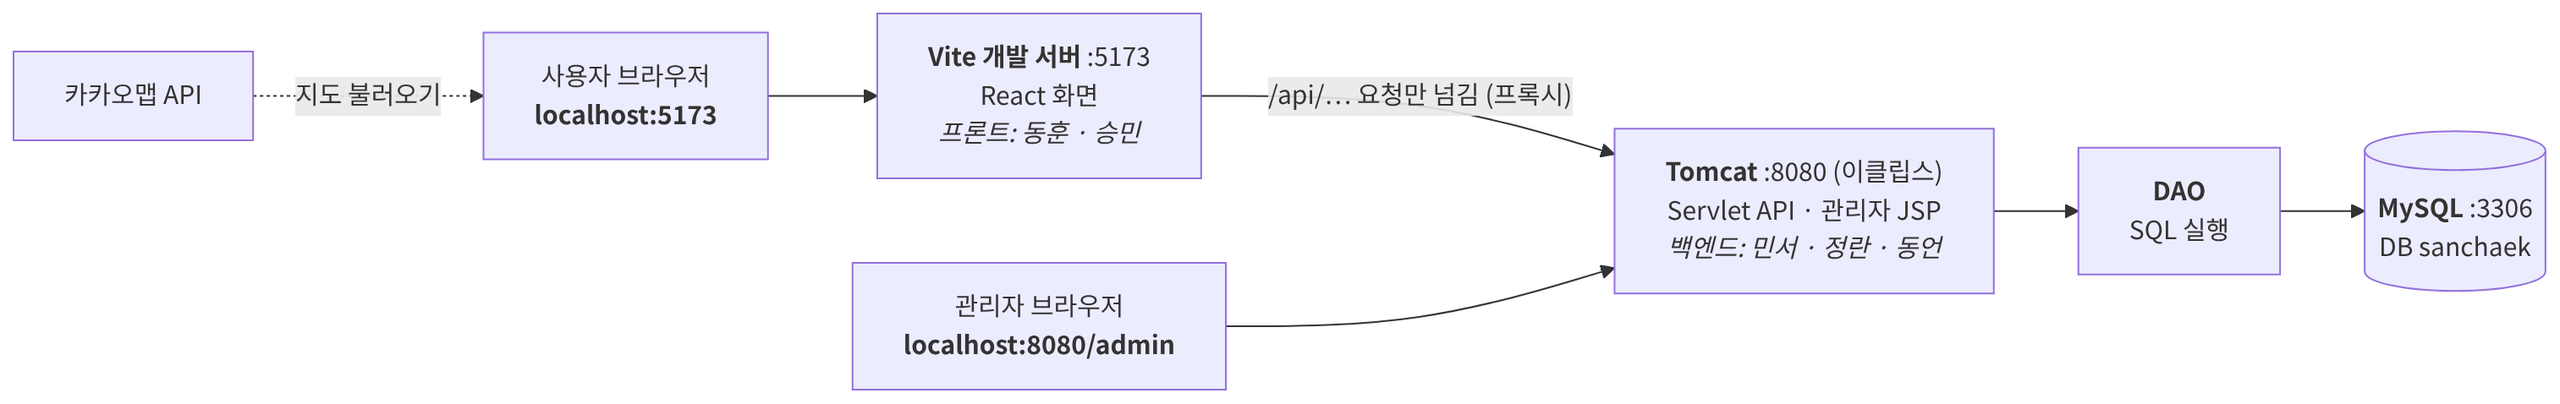
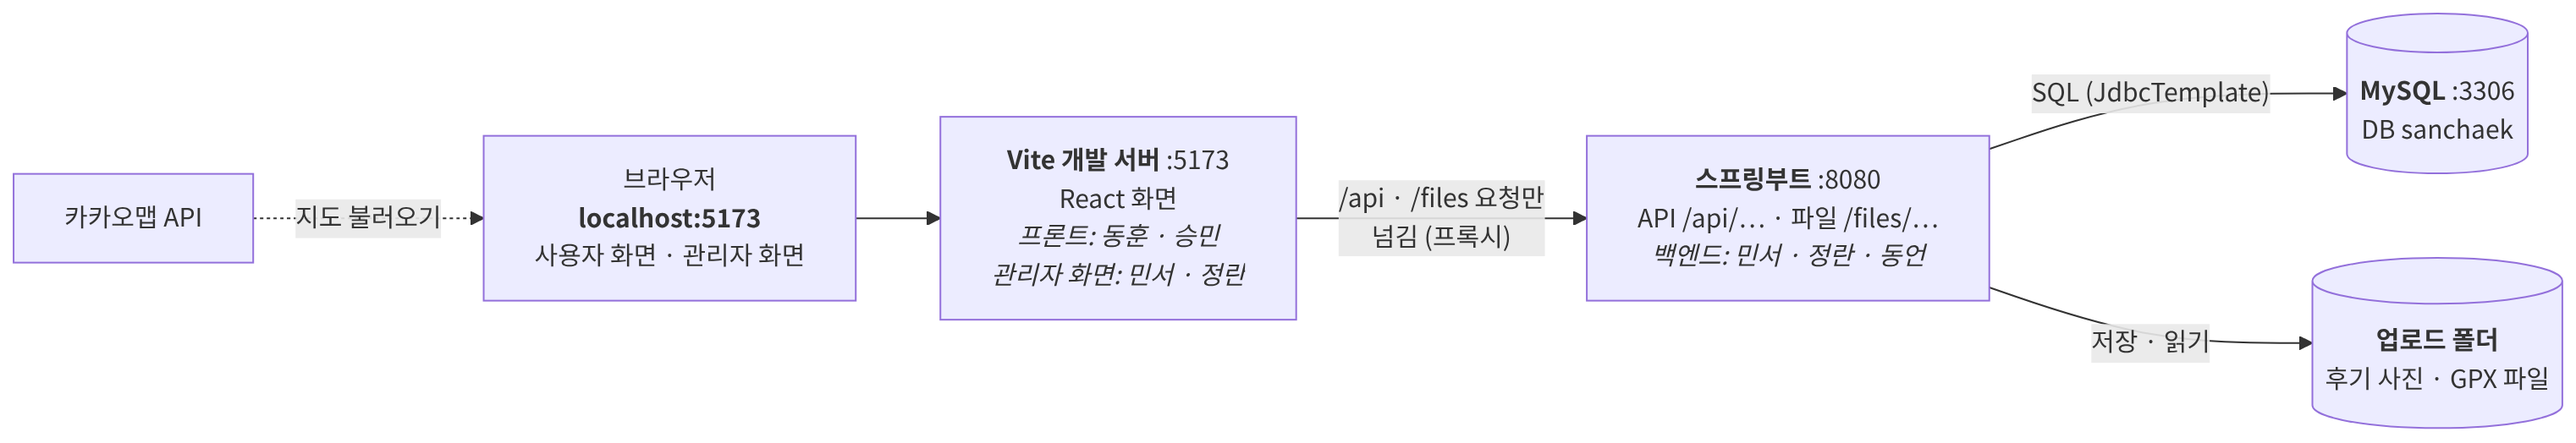
docs: README 스프링부트 전환·배포 안 함·역할 변경 반영, 가독성 정리
- 기술 스택: 스프링부트 4.1(Gradle, JDK 21), VS Code, JdbcTemplate, 배포 안 함
- 전환 중 안내(지금 해도 되는 세팅), 누가 뭘 하나 표 추가
- 구조도: Tomcat·JSP → 스프링부트, 업로드 폴더
- 디스코드 언급 삭제, 줄바꿈·목차·섹션 간격 정리

Claude-Session: https://claude.ai/code/session_01PVf1AhRAoQhu6MZZhNMM2i

diff --git a/README.md b/README.md
@@ -1,158 +1,224 @@
-# Team_walk — 산책시루
+# 🚶 산책시루 (Team_walk)
 
-7팀 산책크루의 정왕동 산책 동행 서비스 **산책시루** 저장소입니다.
+7팀 **산책크루**의 시흥시 정왕동 산책 동행 서비스 저장소입니다.
 
-> **처음 왔다면:** [빠른 시작](#빠른-시작)의 세 화면이 목표입니다. [세팅 가이드](docs/setup.md)를 순서대로 따라 하세요.
-> **백엔드 담당**은 이어서 [DB 세팅](db/README.md#처음-세팅-윈도우-한-번만)과 [설정 파일 `db.properties`](db/README.md#6-백엔드-설정-파일-만들기-dbproperties)까지 합니다 (프론트는 2주차에).
-> **깃허브가 처음이면** 아래 [깃허브로 작업하는 법](#깃허브로-작업하는-법)부터 보세요.
-> 막히면 [막혔을 때](docs/troubleshooting.md)를 먼저 보세요. 지금까지 겪은 문제와 해결법이 모두 있습니다.
+> [!WARNING]
+> **백엔드를 JSP · Servlet에서 스프링부트로 바꾸는 중입니다.**<br>
+> 지금 `backend` 폴더의 Servlet 코드와 세팅 가이드의 이클립스 · Tomcat 부분은 곧 바뀝니다.
+>
+> **그 전까지 지금 해도 되는 것**
+> - Git · JDK 21 · Node.js · VS Code 설치와 저장소 받기 → [세팅 가이드](docs/setup.md) 1 · 2번 (Tomcat · 이클립스는 건너뛰기)
+> - 프론트 세팅 → [세팅 가이드 4번](docs/setup.md#4-프론트-세팅-처음-한-번)
+> - MySQL 설치와 DB 세팅 → [DB 안내 1) ~ 4)](db/README.md#처음-세팅-윈도우-한-번만)
 
-![산책시루 개발 구조: 브라우저 → Vite(5173) → Tomcat(8080) → DAO → MySQL(3306)](docs/images/architecture.png)
+<br>
 
-- 브라우저는 항상 **`localhost:5173`** (React)으로 접속합니다. `/api/…` 요청만 Vite가 이클립스 Tomcat(`8080`)으로 넘깁니다.
-- 백엔드 Servlet은 DAO를 거쳐 MySQL(`3306`)의 `sanchaek` DB를 씁니다. 관리자 화면만 Tomcat의 JSP로 직접 엽니다.
+## 목차
 
----
+1. [한눈에 보기](#-한눈에-보기)
+2. [기술 스택](#-기술-스택)
+3. [누가 뭘 하나](#-누가-뭘-하나)
+4. [문서 안내](#-문서-안내)
+5. [빠른 시작](#-빠른-시작)
+6. [깃허브로 작업하는 법](#-깃허브로-작업하는-법)
+7. [폴더 구조](#-폴더-구조)
+8. [꼭 지킬 것](#-꼭-지킬-것)
 
-## 문서 안내
+<br>
+
+## 📌 한눈에 보기
+
+![산책시루 개발 구조: 브라우저 → Vite(5173) → 스프링부트(8080) → MySQL(3306) · 업로드 폴더](docs/images/architecture.png)
+
+- 브라우저는 항상 **`localhost:5173`** 으로 접속합니다.<br>
+  사용자 화면과 관리자 화면 모두 React입니다.
+
+- `/api/…`, `/files/…` 요청만 Vite가 **스프링부트(`8080`)** 로 넘깁니다.
+
+- 스프링부트는 각자 PC의 **MySQL(`3306`)** 에 있는 `sanchaek` DB를 씁니다.
+
+- **배포는 하지 않습니다.**<br>
+  시연은 노트북 한 대에 DB · 백엔드 · 프론트를 모두 띄워서 합니다.
+
+<br>
+
+## 🧰 기술 스택
+
+| 항목 | 사용 |
+| --- | --- |
+| 프론트 | React 19 + Vite 8, ESLint |
+| 백엔드 | 스프링부트 4.1, Gradle |
+| Java | JDK 21 |
+| Node.js | 22.12 이상 (LTS) |
+| DB | MySQL 8.4 (8.0도 가능), 각자 PC에 설치 |
+| DB 접근 | JdbcTemplate (SQL을 직접 작성) |
+| 개발 도구 | VS Code (프론트는 WebStorm도 가능) |
+| 지도 | 카카오맵 JavaScript API |
+| 협업 | GitHub |
+| 배포 | 하지 않음 (로컬 시연) |
+
+> [!TIP]
+> 인터넷 예제가 `import javax.…` 로 시작하면 옛날 버전(스프링부트 2) 예제입니다.<br>
+> `jakarta.…` 로 바꾸거나, 스프링부트 3 이상 예제를 찾아보세요.
+
+<br>
+
+## 👥 누가 뭘 하나
+
+| 이름 | 역할 | 맡은 기능 |
+| --- | --- | --- |
+| 민서 | 백엔드 · 팀장 | 동행, 공통 코드, 관리자 AD3 |
+| 정란 | 백엔드 | 계정, 신고, 관리자 AD1 · AD2 · AD4 |
+| 동언 | 백엔드 | 코스 · GPX, 후기, 랜드마크 · 스탬프 |
+| 동훈 | 프론트 | 지도 · 코스 · 동행 화면 |
+| 승민 | 프론트 | 계정 · 마이페이지 · 후기 · 스탬프 · 신고 화면, 에러 페이지, 공통 부품 |
+
+- 관리자 화면(AD1~AD4)은 **백엔드 담당이 React로 직접** 만듭니다.
+- 화면별 분배와 일정은 **팀 노션**에 있습니다.
+
+<br>
+
+## 📚 문서 안내
 
 | 문서 | 언제 보나 | 내용 |
 | --- | --- | --- |
-| **[세팅 가이드](docs/setup.md)** | 처음 한 번 | 설치, 폴더 배치, 이클립스 · Tomcat, 프론트, 환경 확인용 테스트 코드, 맥 사용자 부록 |
-| **[DB 안내](db/README.md)** | 백엔드 1주차 시작 전, 테이블이 바뀔 때 | ERD, 설계 약속, MySQL 세팅, 테스트 계정, 쿼리 예시, DB 오류 |
-| **[개발 규칙](docs/development.md)** | 작업할 때마다 | API · 화면 만드는 법, **백엔드 공통 코드 쓰는 법**, 브랜치 · PR 규칙, **깃허브 사용법**(명령어 · PR 올리기 · 리뷰하고 합치기 · 실수 되돌리기), 커밋 메시지 |
-| **[막혔을 때](docs/troubleshooting.md)** | 오류가 났을 때 | 설치 · 이클립스 · Maven · 포트 · 프론트 · Git 문제와 해결법 |
+| [세팅 가이드](docs/setup.md) | 처음 한 번 | 설치, 저장소 받기, 프론트 세팅 |
+| [DB 안내](db/README.md) | DB 세팅할 때<br>테이블이 바뀔 때 | ERD, 설계 약속, 테스트 계정, 쿼리 예시 |
+| [개발 규칙](docs/development.md) | 작업할 때마다 | 화면 · API 만드는 법, **깃허브 사용법**, 커밋 메시지 |
+| [막혔을 때](docs/troubleshooting.md) | 오류가 났을 때 | 지금까지 겪은 문제와 해결법 |
 
-## 관련 문서 (저장소 밖)
+**저장소 밖 문서**
 
-| 문서 | 내용 | 위치 |
-| --- | --- | --- |
-| 노션 | 역할 분배, 우선순위(1·2순위·보류), 일정 | 팀 노션 (디스코드 공지 링크) |
-| Figma | 화면 설계, 화면 ID(A1, C1, W2 …), 📝 메모의 API(안) | [Figma 파일](https://www.figma.com/design/8g73YEapksdegpYXV7aPKp) |
-| API 명세 | 주소, 요청·응답 예시, 담당자 | 노션의 "API 명세" 링크 |
+- 🗒 **노션** — 역할 분배, 우선순위(1순위 · 2순위 · 보류), 일정
+- 🎨 **[Figma](https://www.figma.com/design/8g73YEapksdegpYXV7aPKp)** — 화면 설계, 화면 ID(A1, C1, W2 …), 📝 메모
+- 📄 **API 명세** — 주소, 요청 · 응답 예시, 담당자 (노션의 "API 명세" 링크)
 
----
+<br>
 
-## 빠른 시작
+## ✅ 빠른 시작
 
-아래 화면이 모두 보이면 개발 환경 준비 끝입니다. **캡처해서 디스코드에 올려 주세요.**
+스프링부트 전환이 끝나면 아래 세 가지가 모두 보여야 합니다.<br>
+다 되면 화면을 캡처해서 팀에 공유해 주세요.
 
-| 주소 / 명령 | 보여야 하는 것 | 확인되는 것 |
-| --- | --- | --- |
-| `http://localhost:8080/` | **산책시루 서버가 동작합니다** / JSP: 정상 동작 / JSTL: JSTL 정상 동작 | 이클립스 + Tomcat + JSP |
-| `http://localhost:8080/api/hello` | `{"success":true,"data":{"message":"안녕하세요, 산책시루 서버입니다", …}}` | Servlet + JSON |
-| `http://localhost:5173/` | **산책시루 프론트가 동작합니다** + **✅ 연결 성공** | React + Vite + 백엔드 연결 |
-| (백엔드) `source …/db/check.sql` | 7줄 모두 **OK** | MySQL + 테이블 + 테스트 데이터 ([DB 안내](db/README.md#4-확인)) |
+**1. 백엔드** — `http://localhost:8080/api/hello`
 
----
+```json
+{"success":true,"data":{"message":"안녕하세요, 산책시루 서버입니다", …}}
+```
 
-## 깃허브로 작업하는 법
+**2. 프론트** — `http://localhost:5173/`
 
-**기능 하나 = 브랜치 하나 = PR 하나.** main · develop에는 직접 올리지 않고, 항상 내 브랜치 → PR → 리뷰 → 합치기 순서입니다.
+> 산책시루 프론트가 동작합니다<br>
+> ✅ 연결 성공
+
+**3. DB** — `mysql>` 에서 `source …/db/check.sql`
+
+> 7줄 모두 **OK** ([DB 안내 4)](db/README.md#4-확인))
+
+<br>
+
+## 🌿 깃허브로 작업하는 법
+
+**기능 하나 = 브랜치 하나 = PR 하나**
+
+main · develop에는 직접 올리지 않습니다.<br>
+항상 **내 브랜치 → PR → 리뷰 → 합치기** 순서입니다.
 
 ![깃허브 작업 흐름: ① develop 받기 → ② 브랜치 만들기 → ③ 커밋 → ④ develop 반영 → ⑤ push → ⑥ PR 만들기 → ⑦ 리뷰 → ⑧ 합치기](docs/images/git-workflow.png)
 
 ```bash
-git checkout develop && git pull                 # ① 최신 develop 받기
-git checkout -b feature/W2-match-detail          # ② 내 브랜치 (feature/화면ID-기능)
-git add backend && git commit -m "feat: 동행 상세 API 추가"   # ③ 작게, 자주
-git pull origin develop                          # ④ 그사이 바뀐 develop 반영
-git push -u origin feature/W2-match-detail       # ⑤ 올리기 → 깃허브에서 PR (base: develop)
+# ① 최신 develop 받기
+git checkout develop
+git pull
+
+# ② 내 브랜치 만들기 (feature/화면ID-기능)
+git checkout -b feature/W2-match-detail
+
+# ③ 작업하고 커밋 (작게, 자주)
+git add backend
+git commit -m "feat: 동행 상세 API 추가"
+
+# ④ 그사이 바뀐 develop 반영
+git pull origin develop
+
+# ⑤ 깃허브에 올리기 → 깃허브 화면에서 PR 만들기 (base: develop)
+git push -u origin feature/W2-match-detail
 ```
 
-| 처음이라면 | 자세히 |
+**처음이라면 여기를 보세요**
+
+| 상황 | 자세히 |
 | --- | --- |
 | 이름 · 이메일 설정 (처음 한 번) | [3-1. 처음 한 번](docs/development.md#3-1-처음-한-번) |
 | PR 만드는 화면, 리뷰어 지정 | [3-3. PR 올리는 법](docs/development.md#3-3-pr-올리는-법-깃허브-화면) |
-| 리뷰어가 할 일 (Approve → Merge → Delete branch) | [3-4. 리뷰하고 합치는 법](docs/development.md#3-4-리뷰하고-합치는-법-리뷰어) |
+| 리뷰어가 할 일<br>(Approve → Merge → Delete branch) | [3-4. 리뷰하고 합치는 법](docs/development.md#3-4-리뷰하고-합치는-법-리뷰어) |
 | `CONFLICT`가 났다 | [3-5. 충돌이 났을 때](docs/development.md#3-5-충돌이-났을-때) |
-| develop에서 바로 작업했다, 커밋 메시지를 틀렸다 등 | [3-6. 자주 하는 실수와 되돌리기](docs/development.md#3-6-자주-하는-실수와-되돌리기) |
+| develop에서 바로 작업했다<br>커밋 메시지를 틀렸다 등 | [3-6. 자주 하는 실수와 되돌리기](docs/development.md#3-6-자주-하는-실수와-되돌리기) |
 
----
+<br>
 
-## 기술 스택
-
-| 항목 | 버전 / 도구 | 비고 |
-| --- | --- | --- |
-| Java (JDK) | **21** 설치 권장 (17 이상이면 됨) | 빌드 기준은 17 (`pom.xml`). 21로 빌드해도 문제없음 |
-| 서버 | **Tomcat 10.1** | 팀 전원 같은 버전 |
-| 백엔드 | JSP · Servlet (Jakarta EE 10), Maven | Maven은 이클립스에 내장되어 있어 따로 설치 안 해도 됨 |
-| 백엔드 IDE | 이클립스 **Enterprise Java and Web Developers** | |
-| 프론트 | **React 19 + Vite 8**, ESLint | |
-| Node.js | **22.12 이상** (LTS) | Vite 8의 최소 요구 버전 |
-| 프론트 IDE | VS Code 또는 WebStorm | |
-| DB | **MySQL 8.4** (8.0도 가능), 각자 PC에 설치 | ERD · 세팅 방법 · 테스트 계정은 [db/README.md](db/README.md). 배포 서버는 아직 계획 없음 |
-| 지도 | 카카오맵 JavaScript API (예정) | |
-| 협업 | GitHub, 디스코드 | |
-
-> ⚠ **Tomcat 10.1부터는 `javax.servlet` 대신 `jakarta.servlet`** 을 씁니다. 인터넷 예제를 복사할 때 `import javax.…`를 `import jakarta.…`로 바꾸세요.
->
-> ⚠ **JSTL 주소도 바뀌었습니다:** `<%@ taglib prefix="c" uri="jakarta.tags.core" %>` (예전 `http://java.sun.com/jsp/jstl/core` 아님)
-
----
-
-## 폴더 구조
+## 🗂 폴더 구조
 
 ```
 Team_walk/
-├─ README.md                         지금 보는 안내판
-├─ docs/                             문서
-│  ├─ setup.md                       세팅 가이드 (처음 한 번)
-│  ├─ development.md                 개발 규칙 (브랜치·PR, Git, 커밋)
-│  ├─ troubleshooting.md             막혔을 때
-│  └─ images/                        README 그림 (.png) 과 그림 원본 (.mmd)
-├─ db/                               DB (민서가 관리, 바꿀 때는 PR)
-│  ├─ README.md                      ERD, 설계 약속, MySQL 세팅, 테스트 계정
-│  ├─ schema.sql                     테이블 만들기 (실행하면 데이터 초기화)
-│  ├─ seed.sql                       테스트 데이터 (1·2주차)
-│  ├─ check.sql                      세팅 확인 (7줄 모두 OK 면 성공)
-│  └─ sample-uploads/                테스트용 후기 사진 (각자 PC 업로드 폴더로 복사)
-├─ backend/                          백엔드 (이클립스로 여는 폴더)
-│  ├─ pom.xml                        라이브러리 목록, 빌드 설정
+├─ README.md                지금 보는 안내판
+├─ docs/                    문서
+│  ├─ setup.md              세팅 가이드
+│  ├─ development.md        개발 규칙 · 깃허브 사용법
+│  ├─ troubleshooting.md    막혔을 때
+│  └─ images/               README 그림 (.png) 과 원본 (.mmd)
+│
+├─ db/                      DB (민서 관리, 바꿀 때는 PR)
+│  ├─ README.md             ERD, 설계 약속, MySQL 세팅, 테스트 계정
+│  ├─ schema.sql            테이블 만들기 (실행하면 데이터 초기화)
+│  ├─ seed.sql              테스트 데이터
+│  ├─ check.sql             세팅 확인 (7줄 모두 OK면 성공)
+│  └─ sample-uploads/       테스트용 후기 사진
+│
+├─ backend/                 백엔드 (VS Code로 열기) — 스프링부트로 교체 예정
+│  ├─ build.gradle          라이브러리 목록 (예정)
 │  └─ src/main/
 │     ├─ java/kr/sanchaek/
-│     │  ├─ common/                  공통 코드 (민서) → 쓰는 법은 개발 규칙 1번
-│     │  │  ├─ DBUtil.java           DB 연결
-│     │  │  ├─ ApiResponse.java      응답 형식 { success, data } · JSON 읽기
-│     │  │  ├─ ApiFilter.java        /api 오류를 JSON으로 (자동)
-│     │  │  ├─ SessionUtil.java      로그인 세션 · 로그인 확인
-│     │  │  ├─ PasswordUtil.java     비밀번호 해시 · 확인
-│     │  │  ├─ FileStore.java        후기 사진 저장 · 주소
-│     │  │  ├─ FileServlet.java      /files/… 사진 보내기
-│     │  │  ├─ AppConfig.java        설정 파일 읽기
-│     │  │  └─ HelloServlet.java     ★ 환경 확인용 테스트 API (/api/hello)
-│     │  ├─ match/        (예정)      동행 (민서)
-│     │  ├─ user/         (예정)      계정, 후기, 신고 (정란)
-│     │  └─ course/       (예정)      코스, GPX, 랜드마크 (동언)
-│     ├─ resources/
-│     │  ├─ db.properties.example    설정 파일 예시 (복사해서 db.properties 로)
-│     │  └─ db.properties            DB 비밀번호 · 업로드 폴더 (각자 만듦, 깃허브에 안 올라감)
-│     └─ webapp/
-│        ├─ index.jsp                ★ 환경 확인용 테스트 페이지
-│        ├─ WEB-INF/views/admin/ (예정)  관리자 JSP
-│        └─ error/        (예정)      404, 500 페이지
-└─ frontend/                         프론트 (VS Code·WebStorm으로 여는 폴더)
-   ├─ package.json                   라이브러리 목록 (백엔드의 pom.xml 역할)
-   ├─ vite.config.js                 개발 서버 설정, /api 프록시
-   ├─ index.html                     처음 열리는 빈 페이지
+│     │  ├─ common/         공통 코드 (민서) · ★ /api/hello 테스트 API
+│     │  ├─ match/          동행 (민서)
+│     │  ├─ user/           계정 · 신고 · 관리자 (정란)
+│     │  └─ course/         코스 · GPX · 후기 · 랜드마크 (동언)
+│     └─ resources/         설정 파일 (DB 비밀번호는 각자 PC에만)
+│
+└─ frontend/                프론트 (VS Code · WebStorm으로 열기)
+   ├─ package.json          라이브러리 목록
+   ├─ vite.config.js        개발 서버 설정, /api · /files 프록시
    └─ src/
-      ├─ main.jsx                    React 시작점
-      ├─ App.jsx                     ★ 환경 확인용 테스트 화면 (백엔드 연결 확인)
-      ├─ pages/       (예정)          화면 단위 (Figma 화면 ID)
-      ├─ components/  (예정)          공통 부품 (버튼, 헤더, 카드, 지도 …)
-      ├─ api/         (예정)          백엔드 호출 함수
-      └─ mocks/       (예정)          백엔드 완성 전 가짜 데이터
+      ├─ main.jsx           React 시작점
+      ├─ App.jsx            ★ 환경 확인용 테스트 화면
+      ├─ pages/             (예정) 화면 하나 = 파일 하나, Figma 화면 ID로 이름
+      │  └─ admin/          (예정) 관리자 화면 AD1~AD4 (백엔드 담당이 만듦)
+      ├─ components/        (예정) 공통 부품 (버튼, 헤더, 카드, 지도 …)
+      ├─ api/               (예정) 백엔드 호출 함수
+      └─ mocks/             (예정) 백엔드 완성 전 가짜 데이터
 ```
 
-- **★ 표시 파일은 환경 확인용 테스트 코드입니다. 지우지 마세요.** ([세팅 가이드 5번](docs/setup.md#5-환경-확인용-테스트-코드) 참고)
-- **자기 담당 폴더에서만 작업**하면 같은 파일을 동시에 고쳐서 생기는 충돌이 거의 없습니다.
+- **★ 표시는 환경 확인용 테스트 코드입니다. 지우지 마세요.**
+- **자기 담당 폴더에서만 작업**하면 충돌이 거의 생기지 않습니다.
 
----
+<br>
 
-## 꼭 지킬 것
+## 🚨 꼭 지킬 것
 
-- **비밀번호, API 키는 절대 커밋하지 않기** (DB 비밀번호, 카카오 키 등). 디스코드 비공개 채널로 공유합니다. 한 번이라도 커밋되면 기록에 남으니 키를 새로 발급받아야 합니다. DB 비밀번호는 `db.properties`(깃허브에 안 올라감)에만 넣습니다.
-- **main, develop에 직접 push 금지.** 항상 feature 브랜치 → PR ([개발 규칙](docs/development.md#2-브랜치pr-규칙))
-- **같이 쓰는 파일은 고치기 전에 디스코드에 알리기:** `db/schema.sql`, `backend/pom.xml`, `frontend/package.json`, 프론트 라우터
-- **작업 시작 전에 항상 `git pull`**
-- **환경 확인용 테스트 코드(★) 지우지 않기**
+**🔒 비밀번호 · API 키는 절대 커밋하지 않기**
+
+- DB 비밀번호는 각자 PC의 설정 파일에만 넣습니다 (깃허브에 안 올라가는 파일).
+- 카카오 키처럼 같이 써야 하는 키는 커밋하지 말고 팀원에게 따로 전달합니다.
+- 한 번이라도 커밋되면 기록에 남아서, 키를 새로 발급받아야 합니다.
+
+**🚫 main · develop에 직접 push 하지 않기**
+
+- 항상 내 브랜치 → PR ([브랜치 · PR 규칙](docs/development.md#2-브랜치pr-규칙))
+
+**📣 같이 쓰는 파일은 고치기 전에 팀에 먼저 알리기**
+
+- `db/schema.sql`, `backend/build.gradle`, `frontend/package.json`, 프론트 라우터
+
+**🔄 작업 시작 전에 항상 `git pull`**
+
+**⭐ 환경 확인용 테스트 코드(★) 지우지 않기**

diff --git a/frontend/README.md b/frontend/README.md
@@ -6,8 +6,8 @@
 npm install     # 처음 한 번, 또는 package.json이 바뀌었을 때
 npm run dev     # 개발 서버 → http://localhost:5173
 npm run lint    # 코드 검사 (ESLint)
-npm run build   # 배포용 빌드 → dist/
+npm run build   # 빌드가 되는지 확인 → dist/ (배포는 하지 않음)
 ```
 
-- `/api/…` 요청은 `vite.config.js`의 프록시 설정으로 이클립스 Tomcat(`localhost:8080`)에 전달됩니다.
+- `/api/…`, `/files/…` 요청은 `vite.config.js`의 프록시 설정으로 백엔드(`localhost:8080`)에 전달됩니다.
 - 지금 `src/App.jsx`는 **환경 확인용 테스트 화면**입니다 (React 동작 + 백엔드 `/api/hello` 연결 확인). 지우지 마세요.

diff --git a/docs/setup.md b/docs/setup.md
@@ -2,7 +2,7 @@
 
 [← README](../README.md) · [DB 안내](../db/README.md) · [개발 규칙](development.md) · [막혔을 때](troubleshooting.md)
 
-새로 온 사람이 개발 환경을 갖추는 순서입니다. 끝나면 [README의 빠른 시작](../README.md#빠른-시작) 세 화면이 모두 보여야 합니다.
+새로 온 사람이 개발 환경을 갖추는 순서입니다. 끝나면 [README의 빠른 시작](../README.md#-빠른-시작) 세 가지가 모두 보여야 합니다.
 **백엔드 담당**은 이어서 [DB 세팅](../db/README.md#처음-세팅-윈도우-한-번만)까지 합니다 (프론트는 2주차에).
 
 ## 목차
